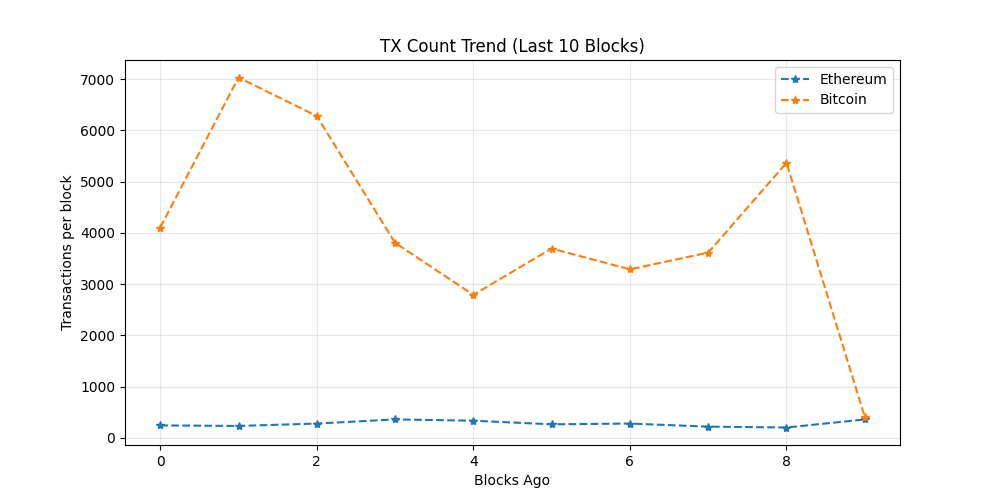
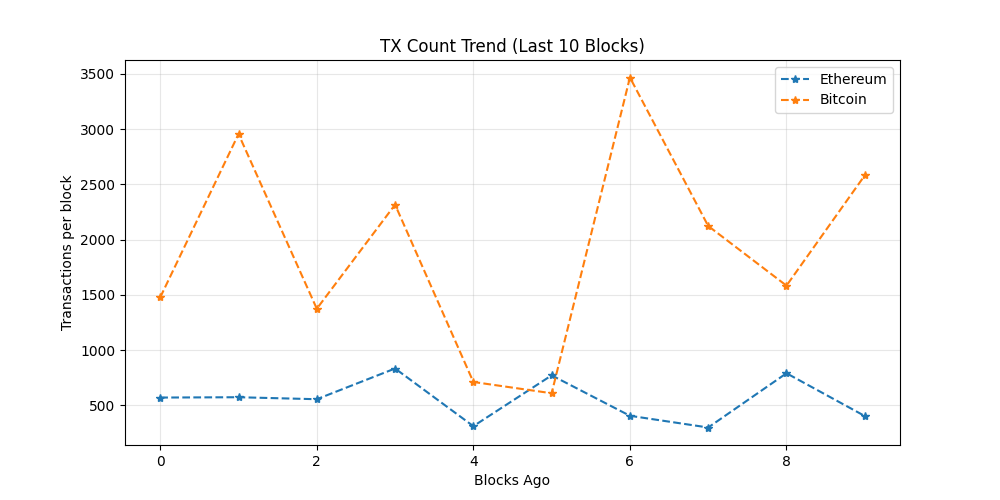
chore: update on-chain dashboard

diff --git a/README.md b/README.md
@@ -19,7 +19,7 @@ The README itself acts as the dashboard and is regenerated automatically on a 6 
 demonstrating a production-style, infrastructure-focused observability workflow rather
 than a traditional UI-driven approach.
 
-_Last updated: 2026-01-26 18:54 UTC_
+_Last updated: 2026-01-27 02:35 UTC_
 
 ## API Usage (GetBlock.io)
 - Calls used: **24**
@@ -27,8 +27,8 @@ _Last updated: 2026-01-26 18:54 UTC_
 ## Network Metrics
 | Chain | Block Height | TX Count | TPS (10 blk avg) | Block Util | Avg Fee |
 |------|-------------|----------|------------------|------------|---------|
-| Ethereum | 24320920 | 359 | 29.92 | 65.72% | 0.1 Gwei |
-| Bitcoin | 933883 | 412 | 10.84 | 12.8% | N/A |
+| Ethereum | 24323216 | 403 | 33.58 | 41.31% | 0.1 Gwei |
+| Bitcoin | 933925 | 2581 | 1.89 | 99.79% | N/A |
 
 ## Visuals
 ### Transactions Trend
@@ -43,7 +43,11 @@ _Last updated: 2026-01-26 18:54 UTC_
 ## Whale Alerts (latest block)
 - Transaction hashes are truncated for readability.
 - Full hashes are available in `dashboards/metrics.json`
-No whale-sized transfers detected in latest blocks.
+- Bitcoin | 107.01 BTC | `66e68ebf18e1…`
+- Bitcoin | 1573.14 BTC | `3c8981b82c5a…`
+- Bitcoin | 149.69 BTC | `e526e31bf2f9…`
+- Bitcoin | 121.0 BTC | `01627edfc93b…`
+- Bitcoin | 420.69 BTC | `56571aa33188…`
 
 ## Run locally
 
